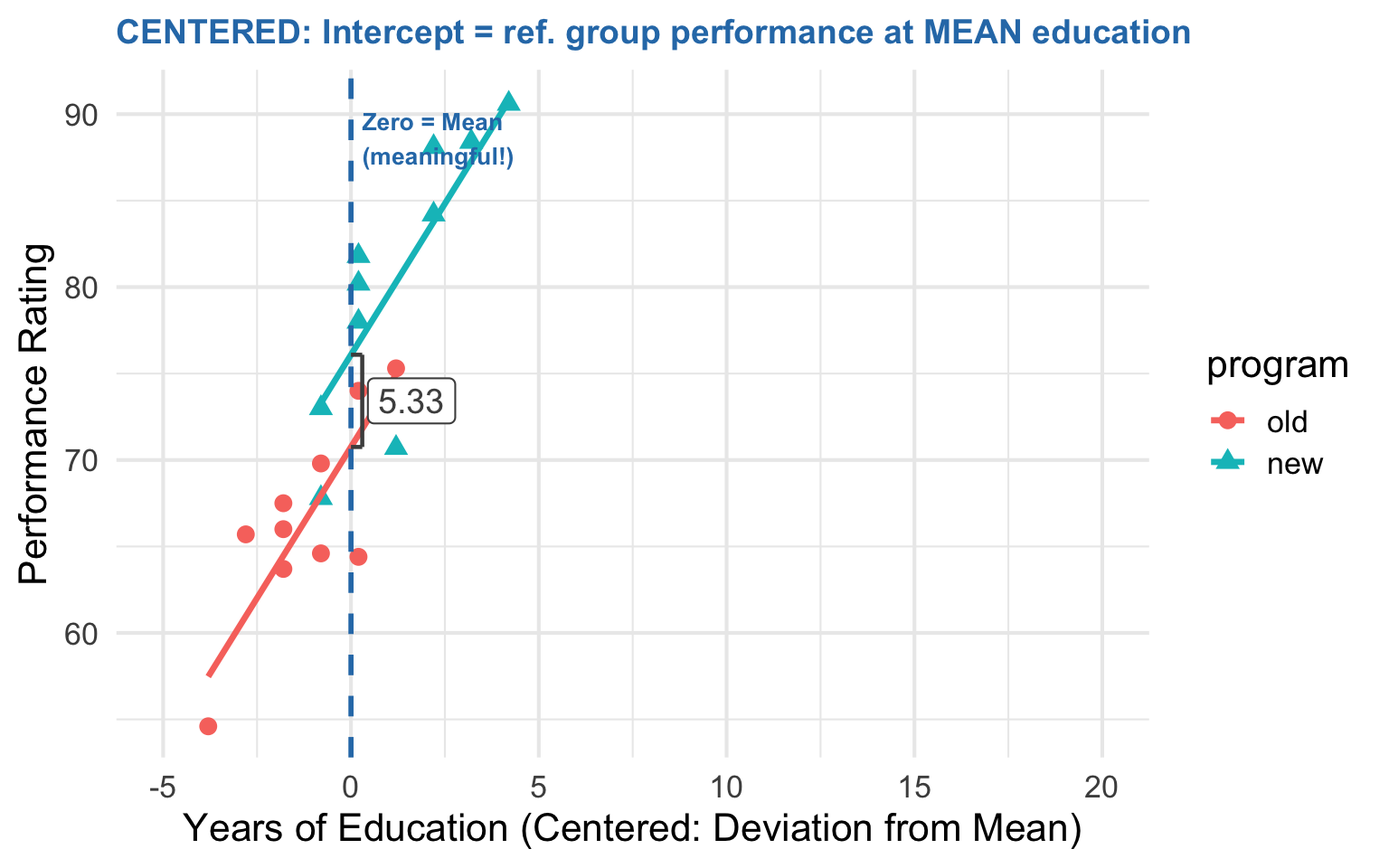
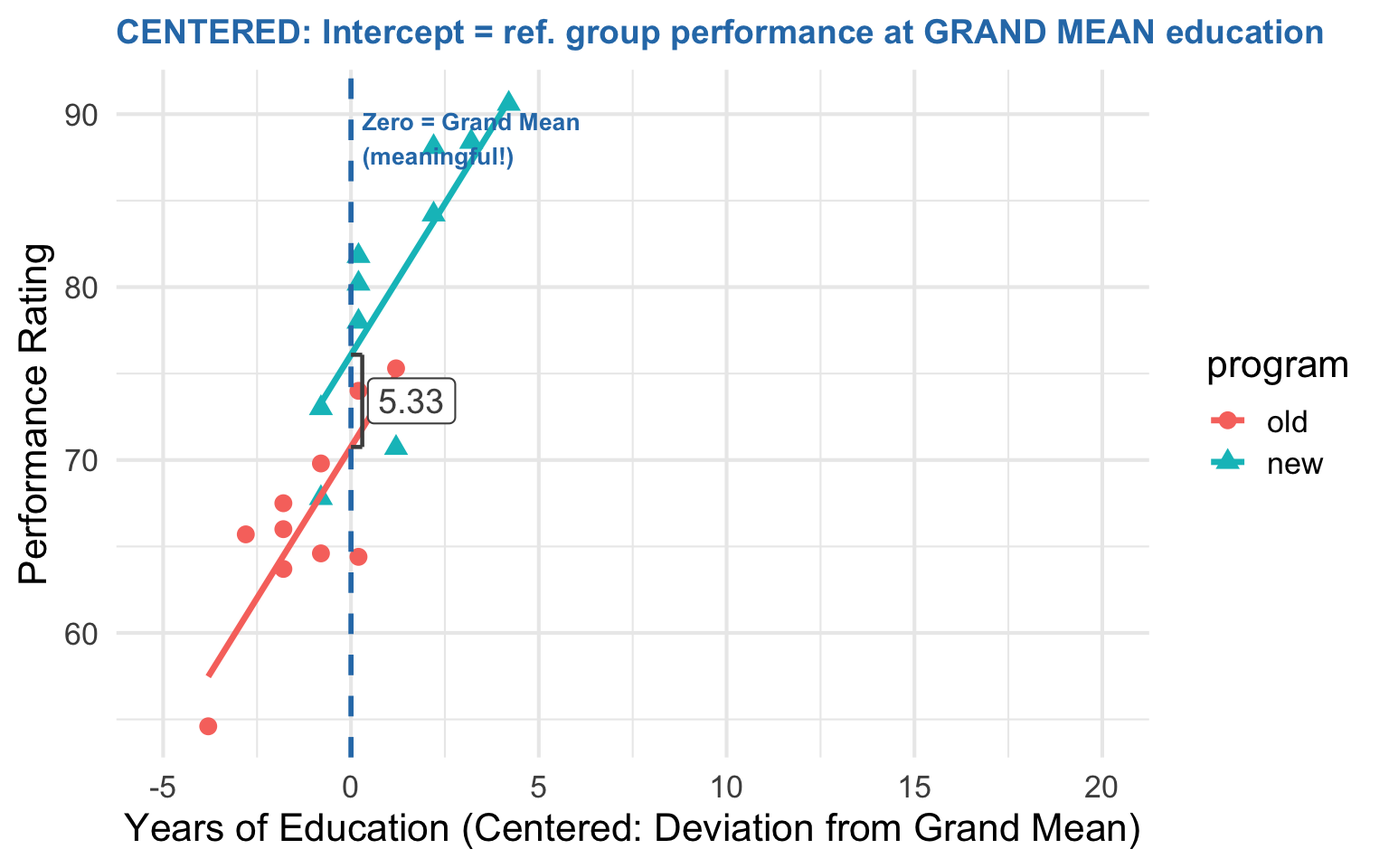
Update reg-cat-part2 slides with centering improvements

Changed region(s): [[0.0938, 0.9375, 0.8125, 0.9688], [0.6562, 0.0, 0.9688, 0.0625], [0.3125, 0.125, 0.4062, 0.1562]]

diff --git a/reg-cat-part2.html b/reg-cat-part2.html
@@ -1404,8 +1404,8 @@
 <h2>Plot Adjusted Onboarding Model (3D)</h2>
 <div class="cell" data-layout-align="center">
 <div class="cell-output-display">
-<div class="plotly html-widget html-fill-item" id="htmlwidget-84fee03be21d40f82a41" style="width:768px;height:576px;"></div>
-<script type="application/json" data-for="htmlwidget-84fee03be21d40f82a41">{"x":{"visdat":{"12f9641377a5d":["function () ","plotlyVisDat"],"12f962142911e":["function () ","data"],"12f96194559a1":["function () ","data"],"12f9617ff65fd":["function () ","data"],"12f9680d15a":["function () ","data"]},"cur_data":"12f9680d15a","attrs":{"12f962142911e":{"alpha_stroke":1,"sizes":[10,100],"spans":[1,20],"x":{},"y":{},"z":{},"type":"scatter3d","mode":"markers","marker":{"size":6,"color":"#F8766D"},"name":"old","inherit":true},"12f96194559a1":{"alpha_stroke":1,"sizes":[10,100],"spans":[1,20],"x":{},"y":{},"z":{},"type":"scatter3d","mode":"lines","line":{"width":4,"color":"#F8766D"},"showlegend":false,"inherit":true},"12f9617ff65fd":{"alpha_stroke":1,"sizes":[10,100],"spans":[1,20],"x":{},"y":{},"z":{},"type":"scatter3d","mode":"markers","marker":{"size":6,"color":"#00BFC4","symbol":"diamond"},"name":"new","inherit":true},"12f9680d15a":{"alpha_stroke":1,"sizes":[10,100],"spans":[1,20],"x":{},"y":{},"z":{},"type":"scatter3d","mode":"lines","line":{"width":4,"color":"#00BFC4"},"showlegend":false,"inherit":true}},"layout":{"margin":{"b":40,"l":60,"t":25,"r":10},"scene":{"xaxis":{"title":"Education"},"yaxis":{"title":"Program","tickvals":[0,1],"ticktext":["old","new"]},"zaxis":{"title":"Performance"}},"hovermode":"closest","showlegend":true},"source":"A","config":{"modeBarButtonsToAdd":["hoverclosest","hovercompare"],"showSendToCloud":false},"data":[{"x":[12,13,14,14,14,15,15,16,16,17],"y":[0,0,0,0,0,0,0,0,0,0],"z":[54.600000000000001,65.700000000000003,67.5,63.700000000000003,66,64.599999999999994,69.799999999999997,64.400000000000006,74,75.299999999999997],"type":"scatter3d","mode":"markers","marker":{"color":"#F8766D","size":6,"line":{"color":"rgba(31,119,180,1)"}},"name":"old","error_y":{"color":"rgba(31,119,180,1)"},"error_x":{"color":"rgba(31,119,180,1)"},"line":{"color":"rgba(31,119,180,1)"},"frame":null},{"x":[12,13,14,14,14,15,15,16,16,17],"y":[0,0,0,0,0,0,0,0,0,0],"z":[57.47456896551725,60.968965517241386,64.463362068965523,64.463362068965523,64.463362068965523,67.95775862068966,67.95775862068966,71.452155172413796,71.452155172413796,74.946551724137933],"type":"scatter3d","mode":"lines","line":{"color":"#F8766D","width":4},"showlegend":false,"marker":{"color":"rgba(255,127,14,1)","line":{"color":"rgba(255,127,14,1)"}},"error_y":{"color":"rgba(255,127,14,1)"},"error_x":{"color":"rgba(255,127,14,1)"},"frame":null},{"x":[15,15,16,16,16,17,18,18,19,20],"y":[1,1,1,1,1,1,1,1,1,1],"z":[67.799999999999997,73,78,81.799999999999997,80.200000000000003,70.700000000000003,84.200000000000003,88.099999999999994,88.400000000000006,90.599999999999994],"type":"scatter3d","mode":"markers","marker":{"color":"#00BFC4","size":6,"symbol":"diamond","line":{"color":"rgba(44,160,44,1)"}},"name":"new","error_y":{"color":"rgba(44,160,44,1)"},"error_x":{"color":"rgba(44,160,44,1)"},"line":{"color":"rgba(44,160,44,1)"},"frame":null},{"x":[15,15,16,16,16,17,18,18,19,20],"y":[1,1,1,1,1,1,1,1,1,1],"z":[73.291206896551728,73.291206896551728,76.785603448275864,76.785603448275864,76.785603448275864,80.280000000000001,83.774396551724138,83.774396551724138,87.268793103448274,90.763189655172411],"type":"scatter3d","mode":"lines","line":{"color":"#00BFC4","width":4},"showlegend":false,"marker":{"color":"rgba(214,39,40,1)","line":{"color":"rgba(214,39,40,1)"}},"error_y":{"color":"rgba(214,39,40,1)"},"error_x":{"color":"rgba(214,39,40,1)"},"frame":null}],"highlight":{"on":"plotly_click","persistent":false,"dynamic":false,"selectize":false,"opacityDim":0.20000000000000001,"selected":{"opacity":1},"debounce":0},"shinyEvents":["plotly_hover","plotly_click","plotly_selected","plotly_relayout","plotly_brushed","plotly_brushing","plotly_clickannotation","plotly_doubleclick","plotly_deselect","plotly_afterplot","plotly_sunburstclick"],"base_url":"https://plot.ly"},"evals":[],"jsHooks":[]}</script>
+<div class="plotly html-widget html-fill-item" id="htmlwidget-e9fece70fb9ccb22f1c5" style="width:768px;height:576px;"></div>
+<script type="application/json" data-for="htmlwidget-e9fece70fb9ccb22f1c5">{"x":{"visdat":{"169cd5879c79f":["function () ","plotlyVisDat"],"169cd2320c51a":["function () ","data"],"169cd3c6c3ffa":["function () ","data"],"169cd66dc5513":["function () ","data"],"169cdb558727":["function () ","data"]},"cur_data":"169cdb558727","attrs":{"169cd2320c51a":{"alpha_stroke":1,"sizes":[10,100],"spans":[1,20],"x":{},"y":{},"z":{},"type":"scatter3d","mode":"markers","marker":{"size":6,"color":"#F8766D"},"name":"old","inherit":true},"169cd3c6c3ffa":{"alpha_stroke":1,"sizes":[10,100],"spans":[1,20],"x":{},"y":{},"z":{},"type":"scatter3d","mode":"lines","line":{"width":4,"color":"#F8766D"},"showlegend":false,"inherit":true},"169cd66dc5513":{"alpha_stroke":1,"sizes":[10,100],"spans":[1,20],"x":{},"y":{},"z":{},"type":"scatter3d","mode":"markers","marker":{"size":6,"color":"#00BFC4","symbol":"diamond"},"name":"new","inherit":true},"169cdb558727":{"alpha_stroke":1,"sizes":[10,100],"spans":[1,20],"x":{},"y":{},"z":{},"type":"scatter3d","mode":"lines","line":{"width":4,"color":"#00BFC4"},"showlegend":false,"inherit":true}},"layout":{"margin":{"b":40,"l":60,"t":25,"r":10},"scene":{"xaxis":{"title":"Education"},"yaxis":{"title":"Program","tickvals":[0,1],"ticktext":["old","new"]},"zaxis":{"title":"Performance"}},"hovermode":"closest","showlegend":true},"source":"A","config":{"modeBarButtonsToAdd":["hoverclosest","hovercompare"],"showSendToCloud":false},"data":[{"x":[12,13,14,14,14,15,15,16,16,17],"y":[0,0,0,0,0,0,0,0,0,0],"z":[54.600000000000001,65.700000000000003,67.5,63.700000000000003,66,64.599999999999994,69.799999999999997,64.400000000000006,74,75.299999999999997],"type":"scatter3d","mode":"markers","marker":{"color":"#F8766D","size":6,"line":{"color":"rgba(31,119,180,1)"}},"name":"old","error_y":{"color":"rgba(31,119,180,1)"},"error_x":{"color":"rgba(31,119,180,1)"},"line":{"color":"rgba(31,119,180,1)"},"frame":null},{"x":[12,13,14,14,14,15,15,16,16,17],"y":[0,0,0,0,0,0,0,0,0,0],"z":[57.47456896551725,60.968965517241386,64.463362068965523,64.463362068965523,64.463362068965523,67.95775862068966,67.95775862068966,71.452155172413796,71.452155172413796,74.946551724137933],"type":"scatter3d","mode":"lines","line":{"color":"#F8766D","width":4},"showlegend":false,"marker":{"color":"rgba(255,127,14,1)","line":{"color":"rgba(255,127,14,1)"}},"error_y":{"color":"rgba(255,127,14,1)"},"error_x":{"color":"rgba(255,127,14,1)"},"frame":null},{"x":[15,15,16,16,16,17,18,18,19,20],"y":[1,1,1,1,1,1,1,1,1,1],"z":[67.799999999999997,73,78,81.799999999999997,80.200000000000003,70.700000000000003,84.200000000000003,88.099999999999994,88.400000000000006,90.599999999999994],"type":"scatter3d","mode":"markers","marker":{"color":"#00BFC4","size":6,"symbol":"diamond","line":{"color":"rgba(44,160,44,1)"}},"name":"new","error_y":{"color":"rgba(44,160,44,1)"},"error_x":{"color":"rgba(44,160,44,1)"},"line":{"color":"rgba(44,160,44,1)"},"frame":null},{"x":[15,15,16,16,16,17,18,18,19,20],"y":[1,1,1,1,1,1,1,1,1,1],"z":[73.291206896551728,73.291206896551728,76.785603448275864,76.785603448275864,76.785603448275864,80.280000000000001,83.774396551724138,83.774396551724138,87.268793103448274,90.763189655172411],"type":"scatter3d","mode":"lines","line":{"color":"#00BFC4","width":4},"showlegend":false,"marker":{"color":"rgba(214,39,40,1)","line":{"color":"rgba(214,39,40,1)"}},"error_y":{"color":"rgba(214,39,40,1)"},"error_x":{"color":"rgba(214,39,40,1)"},"frame":null}],"highlight":{"on":"plotly_click","persistent":false,"dynamic":false,"selectize":false,"opacityDim":0.20000000000000001,"selected":{"opacity":1},"debounce":0},"shinyEvents":["plotly_hover","plotly_click","plotly_selected","plotly_relayout","plotly_brushed","plotly_brushing","plotly_clickannotation","plotly_doubleclick","plotly_deselect","plotly_afterplot","plotly_sunburstclick"],"base_url":"https://plot.ly"},"evals":[],"jsHooks":[]}</script>
 </div>
 </div>
 <p>The two parallel lines from the 2D plot are now shown in 3D space, where the y-axis represents the categorical program variable.</p>
@@ -2228,7 +2228,7 @@ education |           0.66 | [0.47, 1.00]
 </section>
 <section id="making-the-intercept-meaningful" class="slide level2 content-light">
 <h2>Making the Intercept Meaningful</h2>
-<p>The intercept (15.5) represents predicted performance when education = 0 years. But nobody has 0 years of education!</p>
+<p>The intercept (15.5) represents predicted performance for the <strong>reference group</strong> (old program) when education = 0 years. But nobody has 0 years of education!</p>
 <p><strong>Solution: Grand Mean center the continuous predictor</strong> by subtracting the mean. This shifts the “zero point” to a meaningful value. We say it is grand mean centering when we subtract the mean for the entire data set.</p>
 </section>
 <section id="grand-mean-centering-a-visual-explanation" class="slide level2" data-transition="none">
@@ -2242,7 +2242,7 @@ education |           0.66 | [0.47, 1.00]
 </div>
 </div>
 </div>
-<p>After centering, the intercept = predicted performance for the <strong>reference group</strong> (old program) at <strong>mean</strong> education (15.8 years—a realistic person!)</p>
+<p>After centering, the intercept = predicted performance for the <strong>reference group</strong> (old program) at <strong>grand mean</strong> education (15.8 years—a realistic person!)</p>
 </section>
 <section id="grand-mean-centering-a-visual-animation" class="slide level2" data-transition="none">
 <h2>Grand Mean Centering: A Visual Animation</h2>
@@ -2715,7 +2715,7 @@ education |           0.66 | [0.47, 1.00]
 </div>
 </div>
 </div>
-<p><strong>Intercept interpretation:</strong> Expected performance for the <strong>old program</strong> (reference group) at the mean education level (15.8 years)—a realistic, interpretable value!</p>
+<p><strong>Intercept interpretation:</strong> Expected performance for the <strong>old program</strong> (reference group) at the overall sample’s mean education level (15.8 years)—a realistic, interpretable value!</p>
 </section>
 <section id="grand-mean-centered-scatter-animation" class="slide level2" data-transition="none">
 <h2>Grand Mean Centered Scatter Animation</h2>
@@ -3578,7 +3578,7 @@ education |           0.66 | [0.47, 1.00]
 </div>
 <p><strong>What changed?</strong> Only the intercept! The program and education coefficients are identical.</p>
 <ul>
-<li><strong>Intercept:</strong> Changed from 15.5 to 70.8. Now represents predicted performance for the <strong>old program</strong> (reference group) at <em>mean</em> education (15.8 years) rather than at 0 years.</li>
+<li><strong>Intercept:</strong> Changed from 15.5 to 70.8. Now represents predicted performance for the <strong>old program</strong> (reference group) at <em>grand mean</em> education (15.8 years) rather than at 0 years.</li>
 <li><strong>Slopes:</strong> Unchanged—centering shifts the zero point but doesn’t change the relationships between variables.</li>
 </ul>
 </section>
@@ -3603,17 +3603,17 @@ education |           0.66 | [0.47, 1.00]
 <tr class="odd">
 <td>None (raw)</td>
 <td>Nothing</td>
-<td>Performance when education = 0</td>
+<td>Performance for reference group when education = 0</td>
 </tr>
 <tr class="even">
 <td>Grand mean</td>
 <td>Overall mean education</td>
-<td>Performance at mean education (for reference group)</td>
+<td>Performance for reference group at overall mean education</td>
 </tr>
 <tr class="odd">
 <td>Group mean</td>
 <td>Each group’s mean education</td>
-<td>Performance at each group’s mean education</td>
+<td>Performance for reference group at reference group’s mean education</td>
 </tr>
 </tbody>
 </table>
@@ -4786,7 +4786,7 @@ education |           0.66 | [0.47, 1.00]
     svg.appendChild(legendGroup);
 
     // Starting label
-    var startLabel = createText(svgWidth / 2, 120, 'UNCENTERED: Intercept = performance when education = 0', 'grmc-annotation grmc-hidden grmc-fade-in', '#ffffff', 'grmc-start-label');
+    var startLabel = createText(svgWidth / 2, yToSvg(55), 'UNCENTERED: Intercept = performance when education = 0', 'grmc-annotation grmc-hidden grmc-fade-in', '#ffffff', 'grmc-start-label');
     startLabel.setAttribute('font-size', '28px');
     svg.appendChild(startLabel);
 
@@ -5130,8 +5130,7 @@ education |           0.66 | [0.47, 1.00]
         showEl('grmc-legend-group');
         break;
 
-      case 3: // Starting label + zero line
-        showEl('grmc-start-label');
+      case 3: // Zero line
         showEl('grmc-gray-zero-group');
         break;
 
@@ -5363,7 +5362,7 @@ education |           0.66 | [0.47, 1.00]
 </div>
 <p><strong>Key differences:</strong></p>
 <ul>
-<li><strong>Program coefficient:</strong> Grand mean → smaller (controlled for education); Group mean → larger (NOT controlled)</li>
+<li><strong>Program coefficient:</strong> Grand mean → adjusted for education; Group mean → NOT adjusted (direction of change depends on the data)</li>
 <li><strong>Interpretation:</strong> Grand mean compares groups at the <em>same</em> education level; Group mean compares groups at their <em>own</em> average education levels</li>
 <li><strong>Education slope:</strong> Identical in both models—centering doesn’t change slopes</li>
 </ul>
@@ -5423,7 +5422,7 @@ education |           0.66 | [0.47, 1.00]
 <tr class="even">
 <td>Grand Mean</td>
 <td>70.75</td>
-<td>Predicted performance for old-program employees with <strong>average education</strong> (15.8 years)</td>
+<td>Predicted performance for old-program employees with <strong>average education for the overall sample</strong> (15.8 years)</td>
 </tr>
 <tr class="odd">
 <td>Group Mean</td>
@@ -5570,7 +5569,7 @@ education |           0.66 | [0.47, 1.00]
 <h2>Choosing Between Centering Methods</h2>
 <p><strong>When to use Grand Mean Centering:</strong></p>
 <ul>
-<li>You want a meaningful intercept (performance at average education)</li>
+<li>You want a meaningful intercept (reference group performance at average education)</li>
 <li>You want to keep between-group differences in the predictor</li>
 <li>You’re asking: “What’s the program effect for people with the <em>same</em> education?”</li>
 <li>Standard regression and ANCOVA contexts</li>
@@ -5579,8 +5578,8 @@ education |           0.66 | [0.47, 1.00]
 <ul>
 <li>You want to separate within-group from between-group effects</li>
 <li>You’re preparing for <strong>multilevel modeling</strong> (students within schools, employees within companies)</li>
-<li>You’re asking: “What’s the program effect comparing people who are <em>average for their group</em>?”</li>
-<li>You want to remove confounding due to group-level differences in the predictor</li>
+<li>You’re asking: “What’s the program effect comparing people at their group’s typical X level?” (Note: this compares groups at <em>different</em> absolute X values)</li>
+<li>You want to examine within-group relationships separately from between-group differences</li>
 </ul>
 <p><strong>Decision Guide:</strong></p>
 <table class="caption-top">
@@ -5592,24 +5591,24 @@ education |           0.66 | [0.47, 1.00]
 </thead>
 <tbody>
 <tr class="odd">
-<td>Effect of X holding groups equal on X?</td>
+<td>Effect of group, holding X constant?</td>
 <td>Grand mean</td>
-</tr>
-<tr class="even">
-<td>Pure within-group effect of X?</td>
-<td>Group mean</td>
-</tr>
-<tr class="odd">
-<td>Preparing for multilevel models?</td>
-<td>Group mean</td>
 </tr>
 <tr class="even">
 <td>Simple ANCOVA interpretation?</td>
 <td>Grand mean</td>
 </tr>
+<tr class="odd">
+<td>Pure within-group effect of X?</td>
+<td>Group mean</td>
+</tr>
+<tr class="even">
+<td>Preparing for multilevel models?</td>
+<td>Group mean</td>
+</tr>
 </tbody>
 </table>
-<p><strong>Rule of thumb:</strong> If groups naturally differ on the predictor and you want to control for that difference, use grand mean centering. If you want to understand how the predictor works <em>within</em> each group separately, use group mean centering.</p>
+<p><strong>Rule of thumb:</strong> If you want to compare groups at the <em>same</em> X value (standard ANCOVA), use grand mean centering. If you want to compare groups at their <em>respective</em> mean X values (common in multilevel modeling), use group mean centering.</p>
 </section>
 <section id="when-group-mean-centering-is-appropriate" class="slide level2">
 <h2>When group mean centering IS appropriate</h2>
@@ -5642,9 +5641,9 @@ education |           0.66 | [0.47, 1.00]
 <tbody>
 <tr class="odd">
 <td><strong>Intercept</strong></td>
-<td>At education = 0</td>
-<td>At overall mean</td>
-<td>At each group’s mean</td>
+<td>Ref. group at edu = 0</td>
+<td>Ref. group at overall mean</td>
+<td>Ref. group at ref. group’s mean</td>
 </tr>
 <tr class="even">
 <td><strong>Education slope</strong></td>
@@ -5655,8 +5654,8 @@ education |           0.66 | [0.47, 1.00]
 <tr class="odd">
 <td><strong>Program coefficient</strong></td>
 <td>Between-group diff at edu=0</td>
-<td>Between-group diff at mean edu</td>
-<td>Between-group diff at group means</td>
+<td>Between-group diff at overall mean edu</td>
+<td>Between-group diff (each group at own mean)</td>
 </tr>
 <tr class="even">
 <td><strong>Use case</strong></td>
@@ -6585,8 +6584,8 @@ education |           0.66 | [0.47, 1.00]
 <h2>Plot Adjusted Training Model (3D)</h2>
 <div class="cell" data-layout-align="center">
 <div class="cell-output-display">
-<div class="plotly html-widget html-fill-item" id="htmlwidget-41b43ca9feaed7314374" style="width:768px;height:576px;"></div>
-<script type="application/json" data-for="htmlwidget-41b43ca9feaed7314374">{"x":{"visdat":{"12f964fe29e52":["function () ","plotlyVisDat"],"12f9627084277":["function () ","data"],"12f96f43a6a6":["function () ","data"],"12f962271e41e":["function () ","data"],"12f9663377f3c":["function () ","data"]},"cur_data":"12f9663377f3c","attrs":{"12f9627084277":{"alpha_stroke":1,"sizes":[10,100],"spans":[1,20],"x":{},"y":{},"z":{},"type":"scatter3d","mode":"markers","marker":{"size":6,"color":"#F8766D"},"name":"A","inherit":true},"12f96f43a6a6":{"alpha_stroke":1,"sizes":[10,100],"spans":[1,20],"x":{},"y":{},"z":{},"type":"scatter3d","mode":"lines","line":{"width":4,"color":"#F8766D"},"showlegend":false,"inherit":true},"12f962271e41e":{"alpha_stroke":1,"sizes":[10,100],"spans":[1,20],"x":{},"y":{},"z":{},"type":"scatter3d","mode":"markers","marker":{"size":6,"color":"#00BFC4","symbol":"diamond"},"name":"B","inherit":true},"12f9663377f3c":{"alpha_stroke":1,"sizes":[10,100],"spans":[1,20],"x":{},"y":{},"z":{},"type":"scatter3d","mode":"lines","line":{"width":4,"color":"#00BFC4"},"showlegend":false,"inherit":true}},"layout":{"margin":{"b":40,"l":60,"t":25,"r":10},"scene":{"xaxis":{"title":"Experience"},"yaxis":{"title":"Method","tickvals":[0,1],"ticktext":["A","B"]},"zaxis":{"title":"Test Score"}},"hovermode":"closest","showlegend":true},"source":"A","config":{"modeBarButtonsToAdd":["hoverclosest","hovercompare"],"showSendToCloud":false},"data":[{"x":[2,3,4,5,6],"y":[0,0,0,0,0],"z":[54,56,62,68,72],"type":"scatter3d","mode":"markers","marker":{"color":"#F8766D","size":6,"line":{"color":"rgba(31,119,180,1)"}},"name":"A","error_y":{"color":"rgba(31,119,180,1)"},"error_x":{"color":"rgba(31,119,180,1)"},"line":{"color":"rgba(31,119,180,1)"},"frame":null},{"x":[2,3,4,5,6],"y":[0,0,0,0,0],"z":[53.800000000000026,58.100000000000023,62.40000000000002,66.700000000000017,71.000000000000014],"type":"scatter3d","mode":"lines","line":{"color":"#F8766D","width":4},"showlegend":false,"marker":{"color":"rgba(255,127,14,1)","line":{"color":"rgba(255,127,14,1)"}},"error_y":{"color":"rgba(255,127,14,1)"},"error_x":{"color":"rgba(255,127,14,1)"},"frame":null},{"x":[8,9,10,11,12],"y":[1,1,1,1,1],"z":[80,86,88,92,96],"type":"scatter3d","mode":"markers","marker":{"color":"#00BFC4","size":6,"symbol":"diamond","line":{"color":"rgba(44,160,44,1)"}},"name":"B","error_y":{"color":"rgba(44,160,44,1)"},"error_x":{"color":"rgba(44,160,44,1)"},"line":{"color":"rgba(44,160,44,1)"},"frame":null},{"x":[8,9,10,11,12],"y":[1,1,1,1,1],"z":[79.800000000000011,84.100000000000009,88.400000000000006,92.700000000000003,97],"type":"scatter3d","mode":"lines","line":{"color":"#00BFC4","width":4},"showlegend":false,"marker":{"color":"rgba(214,39,40,1)","line":{"color":"rgba(214,39,40,1)"}},"error_y":{"color":"rgba(214,39,40,1)"},"error_x":{"color":"rgba(214,39,40,1)"},"frame":null}],"highlight":{"on":"plotly_click","persistent":false,"dynamic":false,"selectize":false,"opacityDim":0.20000000000000001,"selected":{"opacity":1},"debounce":0},"shinyEvents":["plotly_hover","plotly_click","plotly_selected","plotly_relayout","plotly_brushed","plotly_brushing","plotly_clickannotation","plotly_doubleclick","plotly_deselect","plotly_afterplot","plotly_sunburstclick"],"base_url":"https://plot.ly"},"evals":[],"jsHooks":[]}</script>
+<div class="plotly html-widget html-fill-item" id="htmlwidget-eb2d2c60818caef07ccf" style="width:768px;height:576px;"></div>
+<script type="application/json" data-for="htmlwidget-eb2d2c60818caef07ccf">{"x":{"visdat":{"169cd1fbac059":["function () ","plotlyVisDat"],"169cd1daa2355":["function () ","data"],"169cdcf5b0aa":["function () ","data"],"169cd56216f8b":["function () ","data"],"169cd2d223ada":["function () ","data"]},"cur_data":"169cd2d223ada","attrs":{"169cd1daa2355":{"alpha_stroke":1,"sizes":[10,100],"spans":[1,20],"x":{},"y":{},"z":{},"type":"scatter3d","mode":"markers","marker":{"size":6,"color":"#F8766D"},"name":"A","inherit":true},"169cdcf5b0aa":{"alpha_stroke":1,"sizes":[10,100],"spans":[1,20],"x":{},"y":{},"z":{},"type":"scatter3d","mode":"lines","line":{"width":4,"color":"#F8766D"},"showlegend":false,"inherit":true},"169cd56216f8b":{"alpha_stroke":1,"sizes":[10,100],"spans":[1,20],"x":{},"y":{},"z":{},"type":"scatter3d","mode":"markers","marker":{"size":6,"color":"#00BFC4","symbol":"diamond"},"name":"B","inherit":true},"169cd2d223ada":{"alpha_stroke":1,"sizes":[10,100],"spans":[1,20],"x":{},"y":{},"z":{},"type":"scatter3d","mode":"lines","line":{"width":4,"color":"#00BFC4"},"showlegend":false,"inherit":true}},"layout":{"margin":{"b":40,"l":60,"t":25,"r":10},"scene":{"xaxis":{"title":"Experience"},"yaxis":{"title":"Method","tickvals":[0,1],"ticktext":["A","B"]},"zaxis":{"title":"Test Score"}},"hovermode":"closest","showlegend":true},"source":"A","config":{"modeBarButtonsToAdd":["hoverclosest","hovercompare"],"showSendToCloud":false},"data":[{"x":[2,3,4,5,6],"y":[0,0,0,0,0],"z":[54,56,62,68,72],"type":"scatter3d","mode":"markers","marker":{"color":"#F8766D","size":6,"line":{"color":"rgba(31,119,180,1)"}},"name":"A","error_y":{"color":"rgba(31,119,180,1)"},"error_x":{"color":"rgba(31,119,180,1)"},"line":{"color":"rgba(31,119,180,1)"},"frame":null},{"x":[2,3,4,5,6],"y":[0,0,0,0,0],"z":[53.800000000000026,58.100000000000023,62.40000000000002,66.700000000000017,71.000000000000014],"type":"scatter3d","mode":"lines","line":{"color":"#F8766D","width":4},"showlegend":false,"marker":{"color":"rgba(255,127,14,1)","line":{"color":"rgba(255,127,14,1)"}},"error_y":{"color":"rgba(255,127,14,1)"},"error_x":{"color":"rgba(255,127,14,1)"},"frame":null},{"x":[8,9,10,11,12],"y":[1,1,1,1,1],"z":[80,86,88,92,96],"type":"scatter3d","mode":"markers","marker":{"color":"#00BFC4","size":6,"symbol":"diamond","line":{"color":"rgba(44,160,44,1)"}},"name":"B","error_y":{"color":"rgba(44,160,44,1)"},"error_x":{"color":"rgba(44,160,44,1)"},"line":{"color":"rgba(44,160,44,1)"},"frame":null},{"x":[8,9,10,11,12],"y":[1,1,1,1,1],"z":[79.800000000000011,84.100000000000009,88.400000000000006,92.700000000000003,97],"type":"scatter3d","mode":"lines","line":{"color":"#00BFC4","width":4},"showlegend":false,"marker":{"color":"rgba(214,39,40,1)","line":{"color":"rgba(214,39,40,1)"}},"error_y":{"color":"rgba(214,39,40,1)"},"error_x":{"color":"rgba(214,39,40,1)"},"frame":null}],"highlight":{"on":"plotly_click","persistent":false,"dynamic":false,"selectize":false,"opacityDim":0.20000000000000001,"selected":{"opacity":1},"debounce":0},"shinyEvents":["plotly_hover","plotly_click","plotly_selected","plotly_relayout","plotly_brushed","plotly_brushing","plotly_clickannotation","plotly_doubleclick","plotly_deselect","plotly_afterplot","plotly_sunburstclick"],"base_url":"https://plot.ly"},"evals":[],"jsHooks":[]}</script>
 </div>
 </div>
 <p>The two parallel lines from the 2D plot are now shown in 3D space. Notice how the lines overlap vertically—there’s essentially no gap between methods when experience is accounted for.</p>
@@ -7598,8 +7597,8 @@ experience |           0.97 | [0.92, 1.00]
 <h2>Visualizing the Adjusted Model (3D)</h2>
 <div class="cell" data-layout-align="center">
 <div class="cell-output-display">
-<div class="plotly html-widget html-fill-item" id="htmlwidget-869b6d1a791eb6a6fe9c" style="width:768px;height:576px;"></div>
-<script type="application/json" data-for="htmlwidget-869b6d1a791eb6a6fe9c">{"x":{"visdat":{"12f962f2b8fb6":["function () ","plotlyVisDat"],"12f9654e80deb":["function () ","data"],"12f964ee9ead9":["function () ","data"],"12f965f397508":["function () ","data"],"12f963532910f":["function () ","data"],"12f96ad18b12":["function () ","data"],"12f964301504a":["function () ","data"]},"cur_data":"12f964301504a","attrs":{"12f9654e80deb":{"alpha_stroke":1,"sizes":[10,100],"spans":[1,20],"x":{},"y":{},"z":{},"type":"scatter3d","mode":"markers","marker":{"size":6,"color":"#2ca02c"},"name":"In-person","inherit":true},"12f964ee9ead9":{"alpha_stroke":1,"sizes":[10,100],"spans":[1,20],"x":{},"y":{},"z":{},"type":"scatter3d","mode":"lines","line":{"width":4,"color":"#2ca02c"},"showlegend":false,"inherit":true},"12f965f397508":{"alpha_stroke":1,"sizes":[10,100],"spans":[1,20],"x":{},"y":{},"z":{},"type":"scatter3d","mode":"markers","marker":{"size":6,"color":"#1f77b4","symbol":"diamond"},"name":"Telehealth","inherit":true},"12f963532910f":{"alpha_stroke":1,"sizes":[10,100],"spans":[1,20],"x":{},"y":{},"z":{},"type":"scatter3d","mode":"lines","line":{"width":4,"color":"#1f77b4"},"showlegend":false,"inherit":true},"12f96ad18b12":{"alpha_stroke":1,"sizes":[10,100],"spans":[1,20],"x":{},"y":{},"z":{},"type":"scatter3d","mode":"markers","marker":{"size":6,"color":"#d62728","symbol":"square"},"name":"App","inherit":true},"12f964301504a":{"alpha_stroke":1,"sizes":[10,100],"spans":[1,20],"x":{},"y":{},"z":{},"type":"scatter3d","mode":"lines","line":{"width":4,"color":"#d62728"},"showlegend":false,"inherit":true}},"layout":{"margin":{"b":40,"l":60,"t":25,"r":10},"scene":{"xaxis":{"title":"Duration (years)"},"yaxis":{"title":"Format","tickvals":[0,1,2],"ticktext":["In-person","Telehealth","App"]},"zaxis":{"title":"GAD-7 Score"}},"hovermode":"closest","showlegend":true},"source":"A","config":{"modeBarButtonsToAdd":["hoverclosest","hovercompare"],"showSendToCloud":false},"data":[{"x":[0.5,3.3999999999999999,3.5,4.2999999999999998,4.5,4.5999999999999996,5.4000000000000004,5.7000000000000002,6.2000000000000002,8,8,8.0999999999999996,8.1999999999999993,8.1999999999999993,8.1999999999999993,8.1999999999999993,9.1999999999999993,9.3000000000000007,9.5,9.5999999999999996,9.6999999999999993,9.6999999999999993,9.8000000000000007,10.199999999999999,10.6,11,11.1,11.300000000000001,11.4,11.699999999999999],"y":[0,0,0,0,0,0,0,0,0,0,0,0,0,0,0,0,0,0,0,0,0,0,0,0,0,0,0,0,0,0],"z":[1,5,3,11,5,2,7,10,7,10,9,10,7,6,13,11,10,12,8,12,9,11,7,11,13,8,9,8,12,7],"type":"scatter3d","mode":"markers","marker":{"color":"#2ca02c","size":6,"line":{"color":"rgba(31,119,180,1)"}},"name":"In-person","error_y":{"color":"rgba(31,119,180,1)"},"error_x":{"color":"rgba(31,119,180,1)"},"line":{"color":"rgba(31,119,180,1)"},"frame":null},{"x":[0.5,3.3999999999999999,3.5,4.2999999999999998,4.5,4.5999999999999996,5.4000000000000004,5.7000000000000002,6.2000000000000002,8,8,8.0999999999999996,8.1999999999999993,8.1999999999999993,8.1999999999999993,8.1999999999999993,9.1999999999999993,9.3000000000000007,9.5,9.5999999999999996,9.6999999999999993,9.6999999999999993,9.8000000000000007,10.199999999999999,10.6,11,11.1,11.300000000000001,11.4,11.699999999999999],"y":[0,0,0,0,0,0,0,0,0,0,0,0,0,0,0,0,0,0,0,0,0,0,0,0,0,0,0,0,0,0],"z":[3.5987999521669121,5.4886009524412485,5.5537665041748463,6.075090918043629,6.2054220215108247,6.2705875732444216,6.7919119871132052,6.9874086423139978,7.3132364009819879,8.4862163321867481,8.4862163321867481,8.5513818839203459,8.616547435653942,8.616547435653942,8.616547435653942,8.616547435653942,9.2682029529899204,9.33336850472352,9.4636996081907157,9.5288651599243117,9.5940307116579113,9.5940307116579113,9.6591962633915092,9.9198584703258987,10.18052067726029,10.441182884194681,10.506348435928281,10.636679539395477,10.701845091129073,10.897341746329868],"type":"scatter3d","mode":"lines","line":{"color":"#2ca02c","width":4},"showlegend":false,"marker":{"color":"rgba(255,127,14,1)","line":{"color":"rgba(255,127,14,1)"}},"error_y":{"color":"rgba(255,127,14,1)"},"error_x":{"color":"rgba(255,127,14,1)"},"frame":null},{"x":[2.3999999999999999,2.3999999999999999,2.7999999999999998,3.2000000000000002,3.3999999999999999,3.6000000000000001,3.7999999999999998,3.7999999999999998,4,4,4.0999999999999996,4.0999999999999996,4.0999999999999996,4.4000000000000004,4.5999999999999996,4.9000000000000004,5,5.2000000000000002,5.5999999999999996,5.5999999999999996,5.7000000000000002,5.7999999999999998,5.9000000000000004,6.2000000000000002,6.2000000000000002,6.5999999999999996,6.7999999999999998,7.2000000000000002,8.5,8.5999999999999996],"y":[1,1,1,1,1,1,1,1,1,1,1,1,1,1,1,1,1,1,1,1,1,1,1,1,1,1,1,1,1,1],"z":[4,6,6,6,5,8,6,7,6,10,6,8,8,8,6,5,11,8,9,8,9,10,8,9,8,8,9,3,11,10],"type":"scatter3d","mode":"markers","marker":{"color":"#1f77b4","size":6,"symbol":"diamond","line":{"color":"rgba(44,160,44,1)"}},"name":"Telehealth","error_y":{"color":"rgba(44,160,44,1)"},"error_x":{"color":"rgba(44,160,44,1)"},"line":{"color":"rgba(44,160,44,1)"},"frame":null},{"x":[2.3999999999999999,2.3999999999999999,2.7999999999999998,3.2000000000000002,3.3999999999999999,3.6000000000000001,3.7999999999999998,3.7999999999999998,4,4,4.0999999999999996,4.0999999999999996,4.0999999999999996,4.4000000000000004,4.5999999999999996,4.9000000000000004,5,5.2000000000000002,5.5999999999999996,5.5999999999999996,5.7000000000000002,5.7999999999999998,5.9000000000000004,6.2000000000000002,6.2000000000000002,6.5999999999999996,6.7999999999999998,7.2000000000000002,8.5,8.5999999999999996],"y":[1,1,1,1,1,1,1,1,1,1,1,1,1,1,1,1,1,1,1,1,1,1,1,1,1,1,1,1,1,1],"z":[5.8716117641265901,5.8716117641265901,6.1322739710609806,6.3929361779953728,6.5232672814625676,6.6535983849297633,6.783929488396959,6.783929488396959,6.9142605918641546,6.9142605918641546,6.9794261435977525,6.9794261435977525,6.9794261435977525,7.174922798798546,7.3052539022657417,7.5007505574665361,7.565916109200133,7.6962472126673287,7.95690941960172,7.95690941960172,8.0220749713353179,8.0872405230689157,8.1524060748025136,8.3479027300033071,8.3479027300033071,8.6085649369376984,8.7388960404048941,8.9995582473392854,9.8467104198760573,9.9118759716096534],"type":"scatter3d","mode":"lines","line":{"color":"#1f77b4","width":4},"showlegend":false,"marker":{"color":"rgba(214,39,40,1)","line":{"color":"rgba(214,39,40,1)"}},"error_y":{"color":"rgba(214,39,40,1)"},"error_x":{"color":"rgba(214,39,40,1)"},"frame":null},{"x":[0.5,0.5,0.5,1,1.1000000000000001,1.3,2.1000000000000001,2.2000000000000002,2.2000000000000002,2.2999999999999998,2.2999999999999998,2.5,2.6000000000000001,2.7000000000000002,2.7000000000000002,2.7000000000000002,2.8999999999999999,3.1000000000000001,3.1000000000000001,3.2999999999999998,3.3999999999999999,3.5,3.5,3.5,3.7000000000000002,3.7999999999999998,3.8999999999999999,4.2000000000000002,4.4000000000000004,4.5],"y":[2,2,2,2,2,2,2,2,2,2,2,2,2,2,2,2,2,2,2,2,2,2,2,2,2,2,2,2,2,2],"z":[10,8,5,6,4,5,11,10,10,4,9,11,8,7,10,4,9,11,8,9,4,7,10,6,10,8,7,6,9,12],"type":"scatter3d","mode":"markers","marker":{"color":"#d62728","size":6,"symbol":"square","line":{"color":"rgba(148,103,189,1)"}},"name":"App","error_y":{"color":"rgba(148,103,189,1)"},"error_x":{"color":"rgba(148,103,189,1)"},"line":{"color":"rgba(148,103,189,1)"},"frame":null},{"x":[0.5,0.5,0.5,1,1.1000000000000001,1.3,2.1000000000000001,2.2000000000000002,2.2000000000000002,2.2999999999999998,2.2999999999999998,2.5,2.6000000000000001,2.7000000000000002,2.7000000000000002,2.7000000000000002,2.8999999999999999,3.1000000000000001,3.1000000000000001,3.2999999999999998,3.3999999999999999,3.5,3.5,3.5,3.7000000000000002,3.7999999999999998,3.8999999999999999,4.2000000000000002,4.4000000000000004,4.5],"y":[2,2,2,2,2,2,2,2,2,2,2,2,2,2,2,2,2,2,2,2,2,2,2,2,2,2,2,2,2,2],"z":[6.5214130457720483,6.5214130457720483,6.5214130457720483,6.8472408044400375,6.9124063561736353,7.042737459640831,7.5640618735096137,7.6292274252432115,7.6292274252432115,7.6943929769768085,7.6943929769768085,7.824724080444005,7.8898896321776029,7.9550551839112007,7.9550551839112007,7.9550551839112007,8.0853862873783964,8.215717390845592,8.215717390845592,8.3460484943127859,8.4112140460463856,8.4763795977799816,8.4763795977799816,8.4763795977799816,8.6067107012471773,8.6718762529807769,8.737041804714373,8.9325384599151683,9.0628695633823639,9.12803511511596],"type":"scatter3d","mode":"lines","line":{"color":"#d62728","width":4},"showlegend":false,"marker":{"color":"rgba(140,86,75,1)","line":{"color":"rgba(140,86,75,1)"}},"error_y":{"color":"rgba(140,86,75,1)"},"error_x":{"color":"rgba(140,86,75,1)"},"frame":null}],"highlight":{"on":"plotly_click","persistent":false,"dynamic":false,"selectize":false,"opacityDim":0.20000000000000001,"selected":{"opacity":1},"debounce":0},"shinyEvents":["plotly_hover","plotly_click","plotly_selected","plotly_relayout","plotly_brushed","plotly_brushing","plotly_clickannotation","plotly_doubleclick","plotly_deselect","plotly_afterplot","plotly_sunburstclick"],"base_url":"https://plot.ly"},"evals":[],"jsHooks":[]}</script>
+<div class="plotly html-widget html-fill-item" id="htmlwidget-7a0bfdc62ffc5be32336" style="width:768px;height:576px;"></div>
+<script type="application/json" data-for="htmlwidget-7a0bfdc62ffc5be32336">{"x":{"visdat":{"169cd39dac784":["function () ","plotlyVisDat"],"169cd4a60c8c8":["function () ","data"],"169cd181de89e":["function () ","data"],"169cd5392e970":["function () ","data"],"169cd521be2ed":["function () ","data"],"169cd24cf5fb8":["function () ","data"],"169cd2a953be9":["function () ","data"]},"cur_data":"169cd2a953be9","attrs":{"169cd4a60c8c8":{"alpha_stroke":1,"sizes":[10,100],"spans":[1,20],"x":{},"y":{},"z":{},"type":"scatter3d","mode":"markers","marker":{"size":6,"color":"#2ca02c"},"name":"In-person","inherit":true},"169cd181de89e":{"alpha_stroke":1,"sizes":[10,100],"spans":[1,20],"x":{},"y":{},"z":{},"type":"scatter3d","mode":"lines","line":{"width":4,"color":"#2ca02c"},"showlegend":false,"inherit":true},"169cd5392e970":{"alpha_stroke":1,"sizes":[10,100],"spans":[1,20],"x":{},"y":{},"z":{},"type":"scatter3d","mode":"markers","marker":{"size":6,"color":"#1f77b4","symbol":"diamond"},"name":"Telehealth","inherit":true},"169cd521be2ed":{"alpha_stroke":1,"sizes":[10,100],"spans":[1,20],"x":{},"y":{},"z":{},"type":"scatter3d","mode":"lines","line":{"width":4,"color":"#1f77b4"},"showlegend":false,"inherit":true},"169cd24cf5fb8":{"alpha_stroke":1,"sizes":[10,100],"spans":[1,20],"x":{},"y":{},"z":{},"type":"scatter3d","mode":"markers","marker":{"size":6,"color":"#d62728","symbol":"square"},"name":"App","inherit":true},"169cd2a953be9":{"alpha_stroke":1,"sizes":[10,100],"spans":[1,20],"x":{},"y":{},"z":{},"type":"scatter3d","mode":"lines","line":{"width":4,"color":"#d62728"},"showlegend":false,"inherit":true}},"layout":{"margin":{"b":40,"l":60,"t":25,"r":10},"scene":{"xaxis":{"title":"Duration (years)"},"yaxis":{"title":"Format","tickvals":[0,1,2],"ticktext":["In-person","Telehealth","App"]},"zaxis":{"title":"GAD-7 Score"}},"hovermode":"closest","showlegend":true},"source":"A","config":{"modeBarButtonsToAdd":["hoverclosest","hovercompare"],"showSendToCloud":false},"data":[{"x":[0.5,3.3999999999999999,3.5,4.2999999999999998,4.5,4.5999999999999996,5.4000000000000004,5.7000000000000002,6.2000000000000002,8,8,8.0999999999999996,8.1999999999999993,8.1999999999999993,8.1999999999999993,8.1999999999999993,9.1999999999999993,9.3000000000000007,9.5,9.5999999999999996,9.6999999999999993,9.6999999999999993,9.8000000000000007,10.199999999999999,10.6,11,11.1,11.300000000000001,11.4,11.699999999999999],"y":[0,0,0,0,0,0,0,0,0,0,0,0,0,0,0,0,0,0,0,0,0,0,0,0,0,0,0,0,0,0],"z":[1,5,3,11,5,2,7,10,7,10,9,10,7,6,13,11,10,12,8,12,9,11,7,11,13,8,9,8,12,7],"type":"scatter3d","mode":"markers","marker":{"color":"#2ca02c","size":6,"line":{"color":"rgba(31,119,180,1)"}},"name":"In-person","error_y":{"color":"rgba(31,119,180,1)"},"error_x":{"color":"rgba(31,119,180,1)"},"line":{"color":"rgba(31,119,180,1)"},"frame":null},{"x":[0.5,3.3999999999999999,3.5,4.2999999999999998,4.5,4.5999999999999996,5.4000000000000004,5.7000000000000002,6.2000000000000002,8,8,8.0999999999999996,8.1999999999999993,8.1999999999999993,8.1999999999999993,8.1999999999999993,9.1999999999999993,9.3000000000000007,9.5,9.5999999999999996,9.6999999999999993,9.6999999999999993,9.8000000000000007,10.199999999999999,10.6,11,11.1,11.300000000000001,11.4,11.699999999999999],"y":[0,0,0,0,0,0,0,0,0,0,0,0,0,0,0,0,0,0,0,0,0,0,0,0,0,0,0,0,0,0],"z":[3.5987999521669121,5.4886009524412485,5.5537665041748463,6.075090918043629,6.2054220215108247,6.2705875732444216,6.7919119871132052,6.9874086423139978,7.3132364009819879,8.4862163321867481,8.4862163321867481,8.5513818839203459,8.616547435653942,8.616547435653942,8.616547435653942,8.616547435653942,9.2682029529899204,9.33336850472352,9.4636996081907157,9.5288651599243117,9.5940307116579113,9.5940307116579113,9.6591962633915092,9.9198584703258987,10.18052067726029,10.441182884194681,10.506348435928281,10.636679539395477,10.701845091129073,10.897341746329868],"type":"scatter3d","mode":"lines","line":{"color":"#2ca02c","width":4},"showlegend":false,"marker":{"color":"rgba(255,127,14,1)","line":{"color":"rgba(255,127,14,1)"}},"error_y":{"color":"rgba(255,127,14,1)"},"error_x":{"color":"rgba(255,127,14,1)"},"frame":null},{"x":[2.3999999999999999,2.3999999999999999,2.7999999999999998,3.2000000000000002,3.3999999999999999,3.6000000000000001,3.7999999999999998,3.7999999999999998,4,4,4.0999999999999996,4.0999999999999996,4.0999999999999996,4.4000000000000004,4.5999999999999996,4.9000000000000004,5,5.2000000000000002,5.5999999999999996,5.5999999999999996,5.7000000000000002,5.7999999999999998,5.9000000000000004,6.2000000000000002,6.2000000000000002,6.5999999999999996,6.7999999999999998,7.2000000000000002,8.5,8.5999999999999996],"y":[1,1,1,1,1,1,1,1,1,1,1,1,1,1,1,1,1,1,1,1,1,1,1,1,1,1,1,1,1,1],"z":[4,6,6,6,5,8,6,7,6,10,6,8,8,8,6,5,11,8,9,8,9,10,8,9,8,8,9,3,11,10],"type":"scatter3d","mode":"markers","marker":{"color":"#1f77b4","size":6,"symbol":"diamond","line":{"color":"rgba(44,160,44,1)"}},"name":"Telehealth","error_y":{"color":"rgba(44,160,44,1)"},"error_x":{"color":"rgba(44,160,44,1)"},"line":{"color":"rgba(44,160,44,1)"},"frame":null},{"x":[2.3999999999999999,2.3999999999999999,2.7999999999999998,3.2000000000000002,3.3999999999999999,3.6000000000000001,3.7999999999999998,3.7999999999999998,4,4,4.0999999999999996,4.0999999999999996,4.0999999999999996,4.4000000000000004,4.5999999999999996,4.9000000000000004,5,5.2000000000000002,5.5999999999999996,5.5999999999999996,5.7000000000000002,5.7999999999999998,5.9000000000000004,6.2000000000000002,6.2000000000000002,6.5999999999999996,6.7999999999999998,7.2000000000000002,8.5,8.5999999999999996],"y":[1,1,1,1,1,1,1,1,1,1,1,1,1,1,1,1,1,1,1,1,1,1,1,1,1,1,1,1,1,1],"z":[5.8716117641265901,5.8716117641265901,6.1322739710609806,6.3929361779953728,6.5232672814625676,6.6535983849297633,6.783929488396959,6.783929488396959,6.9142605918641546,6.9142605918641546,6.9794261435977525,6.9794261435977525,6.9794261435977525,7.174922798798546,7.3052539022657417,7.5007505574665361,7.565916109200133,7.6962472126673287,7.95690941960172,7.95690941960172,8.0220749713353179,8.0872405230689157,8.1524060748025136,8.3479027300033071,8.3479027300033071,8.6085649369376984,8.7388960404048941,8.9995582473392854,9.8467104198760573,9.9118759716096534],"type":"scatter3d","mode":"lines","line":{"color":"#1f77b4","width":4},"showlegend":false,"marker":{"color":"rgba(214,39,40,1)","line":{"color":"rgba(214,39,40,1)"}},"error_y":{"color":"rgba(214,39,40,1)"},"error_x":{"color":"rgba(214,39,40,1)"},"frame":null},{"x":[0.5,0.5,0.5,1,1.1000000000000001,1.3,2.1000000000000001,2.2000000000000002,2.2000000000000002,2.2999999999999998,2.2999999999999998,2.5,2.6000000000000001,2.7000000000000002,2.7000000000000002,2.7000000000000002,2.8999999999999999,3.1000000000000001,3.1000000000000001,3.2999999999999998,3.3999999999999999,3.5,3.5,3.5,3.7000000000000002,3.7999999999999998,3.8999999999999999,4.2000000000000002,4.4000000000000004,4.5],"y":[2,2,2,2,2,2,2,2,2,2,2,2,2,2,2,2,2,2,2,2,2,2,2,2,2,2,2,2,2,2],"z":[10,8,5,6,4,5,11,10,10,4,9,11,8,7,10,4,9,11,8,9,4,7,10,6,10,8,7,6,9,12],"type":"scatter3d","mode":"markers","marker":{"color":"#d62728","size":6,"symbol":"square","line":{"color":"rgba(148,103,189,1)"}},"name":"App","error_y":{"color":"rgba(148,103,189,1)"},"error_x":{"color":"rgba(148,103,189,1)"},"line":{"color":"rgba(148,103,189,1)"},"frame":null},{"x":[0.5,0.5,0.5,1,1.1000000000000001,1.3,2.1000000000000001,2.2000000000000002,2.2000000000000002,2.2999999999999998,2.2999999999999998,2.5,2.6000000000000001,2.7000000000000002,2.7000000000000002,2.7000000000000002,2.8999999999999999,3.1000000000000001,3.1000000000000001,3.2999999999999998,3.3999999999999999,3.5,3.5,3.5,3.7000000000000002,3.7999999999999998,3.8999999999999999,4.2000000000000002,4.4000000000000004,4.5],"y":[2,2,2,2,2,2,2,2,2,2,2,2,2,2,2,2,2,2,2,2,2,2,2,2,2,2,2,2,2,2],"z":[6.5214130457720483,6.5214130457720483,6.5214130457720483,6.8472408044400375,6.9124063561736353,7.042737459640831,7.5640618735096137,7.6292274252432115,7.6292274252432115,7.6943929769768085,7.6943929769768085,7.824724080444005,7.8898896321776029,7.9550551839112007,7.9550551839112007,7.9550551839112007,8.0853862873783964,8.215717390845592,8.215717390845592,8.3460484943127859,8.4112140460463856,8.4763795977799816,8.4763795977799816,8.4763795977799816,8.6067107012471773,8.6718762529807769,8.737041804714373,8.9325384599151683,9.0628695633823639,9.12803511511596],"type":"scatter3d","mode":"lines","line":{"color":"#d62728","width":4},"showlegend":false,"marker":{"color":"rgba(140,86,75,1)","line":{"color":"rgba(140,86,75,1)"}},"error_y":{"color":"rgba(140,86,75,1)"},"error_x":{"color":"rgba(140,86,75,1)"},"frame":null}],"highlight":{"on":"plotly_click","persistent":false,"dynamic":false,"selectize":false,"opacityDim":0.20000000000000001,"selected":{"opacity":1},"debounce":0},"shinyEvents":["plotly_hover","plotly_click","plotly_selected","plotly_relayout","plotly_brushed","plotly_brushing","plotly_clickannotation","plotly_doubleclick","plotly_deselect","plotly_afterplot","plotly_sunburstclick"],"base_url":"https://plot.ly"},"evals":[],"jsHooks":[]}</script>
 </div>
 </div>
 <p>The three parallel lines show the adjusted effect: at any illness duration, in-person therapy (green) produces the lowest anxiety scores.</p>
